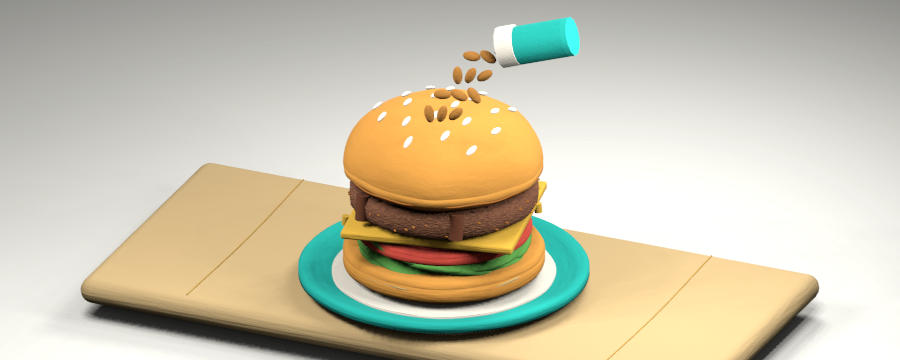
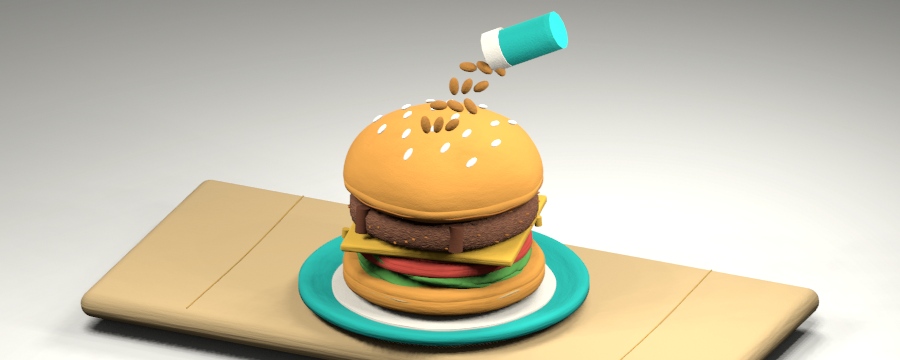
Exaggerate sesame descent and shaker motion for mobile playback

diff --git a/video-pipeline/pilot/burger/clay/sculpt_episode.py b/video-pipeline/pilot/burger/clay/sculpt_episode.py
@@ -241,7 +241,7 @@ def finish(M,pose,title=False):
 def twist(M,pose,sprinkle=False):
     camera=bpy.context.scene.camera
     camera.data.ortho_scale=10.5
-    camera.rotation_euler=(Vector((0,0,1.3))-camera.location).to_track_quat('-Z','Y').to_euler()
+    camera.rotation_euler=(Vector((0,0,1.47 if sprinkle else 1.3))-camera.location).to_track_quat('-Z','Y').to_euler()
     burger(M,6 if sprinkle else 5,pose,True,open_top=not sprinkle)
     if not sprinkle:
         x=-.70+pose*.44
@@ -254,15 +254,26 @@ def twist(M,pose,sprinkle=False):
     else:
         # A tipped jar and a front-facing trail keep the action readable at 320px.
         # Dark golden seeds contrast with the white set; the bun cannot hide them.
+        shaker=bpy.data.objects.new('Stop-motion shaker pivot',None)
+        bpy.context.collection.objects.link(shaker)
+        shaker.location=(.90,-.58,3.43)
+        existing=set(bpy.data.objects)
         rod('Tipped sesame jar',(1.02,-.55,3.45),(1.75,-.43,3.67),.23,M['teal'])
         rod('Perforated shaker lid',(.90,-.58,3.43),(1.10,-.54,3.49),.245,M['cream'])
         for j in range(3):
             ball('Shaker lid hole',(.878,-.66+j*.07,3.40+j*.035),(.018,.027,.022),M['dark'],j)
+        for obj in set(bpy.data.objects)-existing:
+            obj.parent=shaker
+            obj.location-=shaker.location
+        shake=[-.13,.13,-.11,.11][pose]
+        shaker.rotation_euler[1]=[-.16,.16,-.13,.13][pose]
+        shaker.location.x+=shake
+        shaker.location.z+=[.06,-.04,.05,-.03][pose]
         for j in range(12):
             row,col=divmod(j,3)
-            x=.78-row*.14+(col-1)*.16+.025*math.sin(pose+j)
+            x=.78-row*.14+(col-1)*.16+.025*math.sin(pose+j)+shake*.35
             y=-.72-row*.10+(col-1)*.06
-            z=3.35-row*.23-pose*.045
+            z=3.35-row*.23-pose*.22
             seed=ball('Large falling sesame',(x,y,z),(.11,.065,.055),M['sesame'],j)
             seed.rotation_euler[1]=j*.5+pose*.25
 
